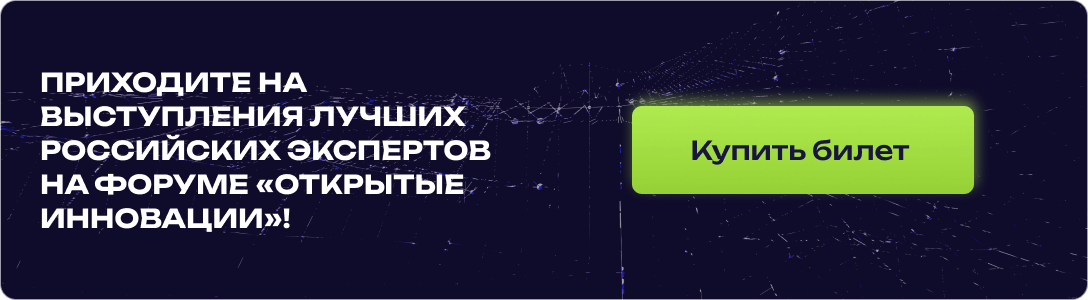
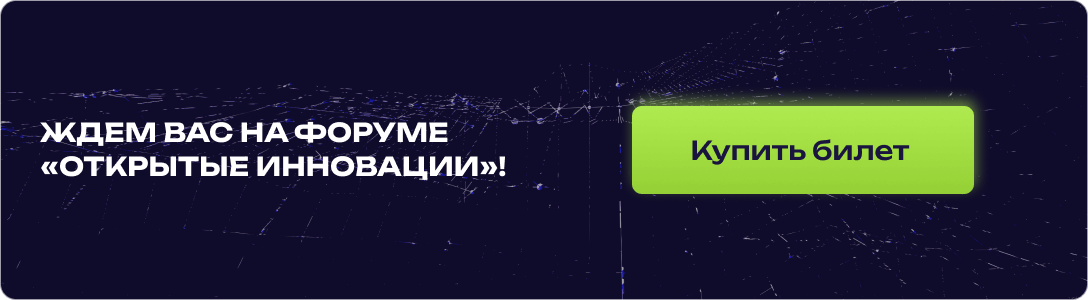
change open-innovations-2024-program

Changed region(s): [[0.0312, 0.24, 0.4688, 0.66], [0.0312, 0.69, 0.2812, 0.78]]

diff --git a/open-innovations-2024-program/Программа форума.html b/open-innovations-2024-program/Программа форума.html
@@ -126,12 +126,12 @@
                             <tbody>
                             <tr>
                                 <td align="left" style="font-size: 0; word-break: break-word; padding-bottom: 15px;">
-                                    <div style="font-family: Unbounded, Helvetica, Arial, sans-serif; font-size: 12px; font-weight: 400; line-height: 14px; text-align: left; color: #fff;"><span style="color:#B1EC52;font-weight:700;">10–11 апреля</span> в&nbsp;Технопарке «Сколково» пройдёт крупнейший в&nbsp;России форум новых технологий. на&nbsp;мероприятии соберутся учёные и&nbsp;представители корпораций, инвесторы, а&nbsp;также стартапы и&nbsp;менторы.</div>
+                                    <div style="font-family: Unbounded, Helvetica, Arial, sans-serif; font-size: 12px; font-weight: 400; line-height: 14px; text-align: left; color: #fff;"><span style="color:#B1EC52;font-weight:700;">10–11 апреля</span> в&nbsp;Технопарке «Сколково» пройдёт крупнейший в&nbsp;России форум новых технологий. На&nbsp;мероприятии соберутся учёные и&nbsp;представители корпораций, инвесторы, а&nbsp;также стартапы и&nbsp;менторы.</div>
                                 </td>
                             </tr>
                             <tr>
                                 <td align="left" style="font-size: 0; word-break: break-word; padding-bottom: 15px;">
-                                    <div style="font-family: Unbounded, Helvetica, Arial, sans-serif; font-size: 12px; font-weight: 400; line-height: 14px; text-align: left; color: #fff;">Спикеры обсудят будущее отечественного высокотеха и&nbsp;расскажут о&nbsp;новейших разработках в&nbsp;промышленных и&nbsp;экономических сферах.</div>
+                                    <div style="font-family: Unbounded, Helvetica, Arial, sans-serif; font-size: 12px; font-weight: 400; line-height: 14px; text-align: left; color: #fff;">Спикеры обсудят будущее отечественного высокотеха и&nbsp;расскажут о&nbsp;новейших разработках в&nbsp;промышленной и&nbsp;экономической сферах.</div>
                                 </td>
                             </tr>
                             <tr>
@@ -196,7 +196,7 @@
                                         <tbody>
                                         <tr>
                                             <td style="width:267px">
-                                                <img alt="11 апреля: #Высокотех - Раскидывая сети. Будущее индустрии мобильной связи. #Будущее технологий - Мозговой штурм. Применение генеративного ИИ в&nbsp;бизнесе. #Экосистема - Работать некому. Кадровый голод или 100% занятость в&nbsp;высокотехе? #Цифра - Создание новых промышленных объектов. на&nbsp;пути к технологическому превосходству. #Столица инноваций - Есть ли жизнь на&nbsp;«венчурном рынке» или как не потерять деньги на&nbsp;венчуре в&nbsp;2024 году?" height="auto" src="https://cp.unisender.com/ru/user_file?resource=images&user_id=5608985&name=oi-program-session-2.png" style="border:0;display:block;outline:none;text-decoration:none;height:auto;width:100%;font-size:13px;color:#FFFFFF;" width="267" />
+                                                <img alt="11 апреля: #Высокотех - Раскидывая сети. Будущее индустрии мобильной связи. #Будущее технологий - Мозговой штурм. Применение генеративного ИИ в&nbsp;бизнесе. #Экосистема - Работать некому. Кадровый голод или 100% занятость в&nbsp;высокотехе? #Цифра - Создание новых промышленных объектов. На&nbsp;пути к технологическому превосходству. #Столица инноваций - Есть ли жизнь на&nbsp;«венчурном рынке» или как не потерять деньги на&nbsp;венчуре в&nbsp;2024 году?" height="auto" src="https://cp.unisender.com/ru/user_file?resource=images&user_id=5608985&name=oi-program-session-2.png" style="border:0;display:block;outline:none;text-decoration:none;height:auto;width:100%;font-size:13px;color:#FFFFFF;" width="267" />
                                             </td>
                                         </tr>
                                         </tbody>
@@ -386,7 +386,7 @@
                                         <tr>
                                             <td style="width:544px;padding:30px 30px 48px;">
                                                 <a href="https://openinnovations.ru/registration/email?utm_source=email_in&utm_medium=letter&utm_campaign=6" target="_blank">
-                                                    <img alt="Приходите на&nbsp;выступления лучших российских экспертов на&nbsp;форуме «Открытые инновации»! Нажмите здесь, чтобы купить билет" height="auto" src="https://cp.unisender.com/ru/user_file?resource=images&user_id=5608985&name=oi-program-content-img-1.png" style="border:0;display:block;outline:none;text-decoration:none;height:auto;max-width:544px;width:100%;font-size:13px;color:#FFFFFF;" width="544" />
+                                                    <img alt="Ждем вас на форуме «Открытые Инновации»! Нажмите здесь, чтобы купить билет" height="auto" src="https://cp.unisender.com/ru/user_file?resource=images&user_id=5608985&name=oi-program-content-img-1.png" style="border:0;display:block;outline:none;text-decoration:none;height:auto;max-width:544px;width:100%;font-size:13px;color:#FFFFFF;" width="544" />
                                                 </a>
                                             </td>
                                         </tr>
